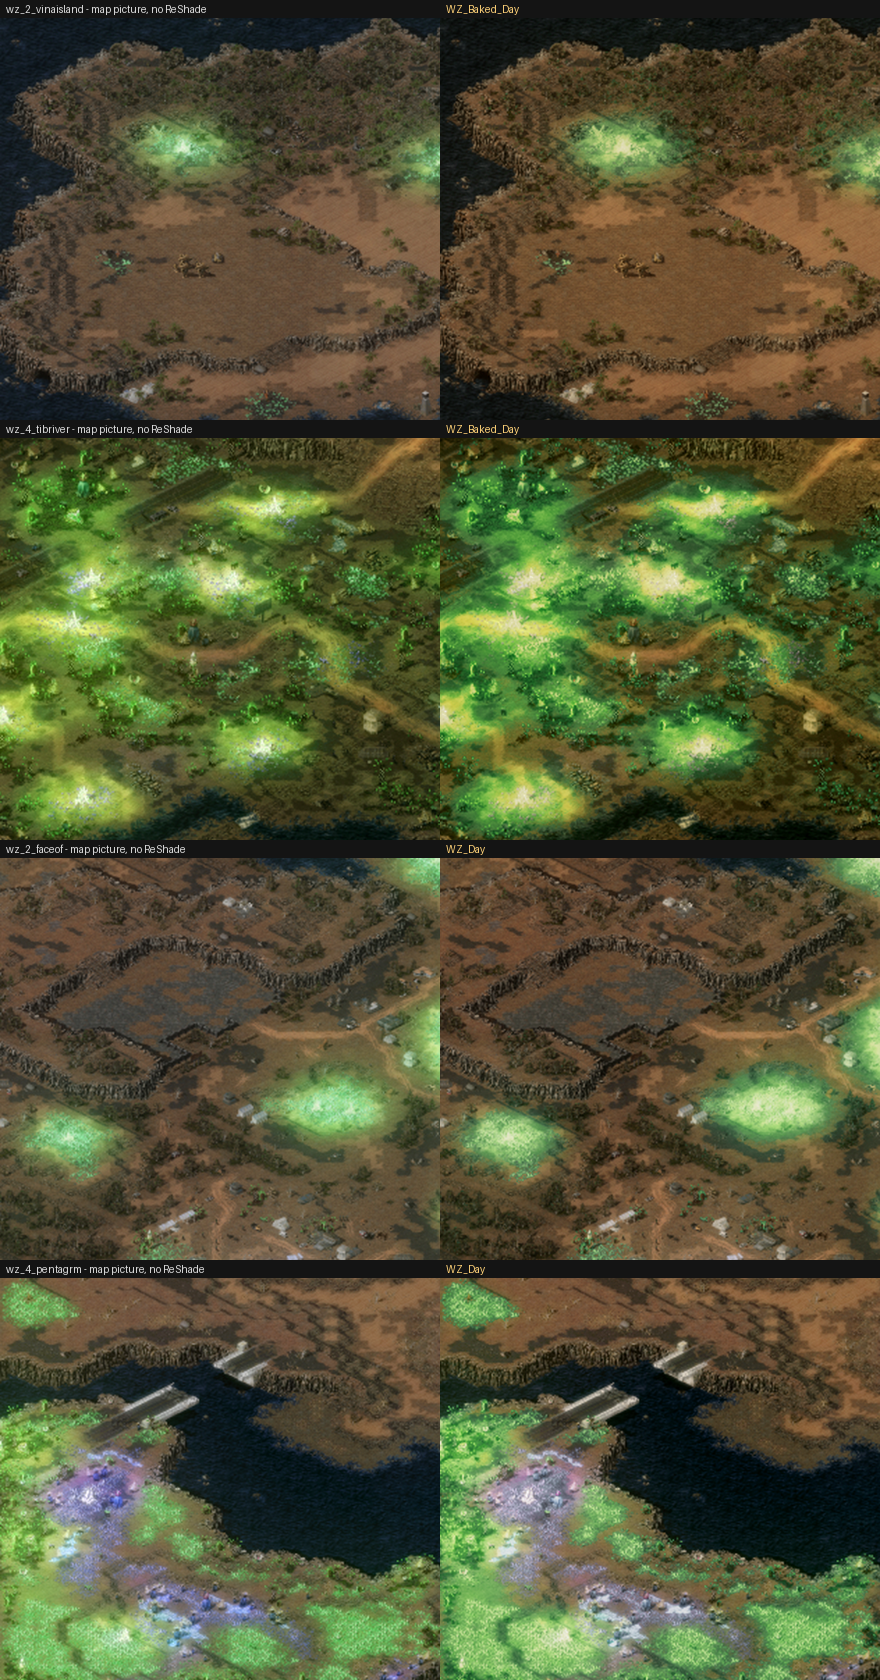
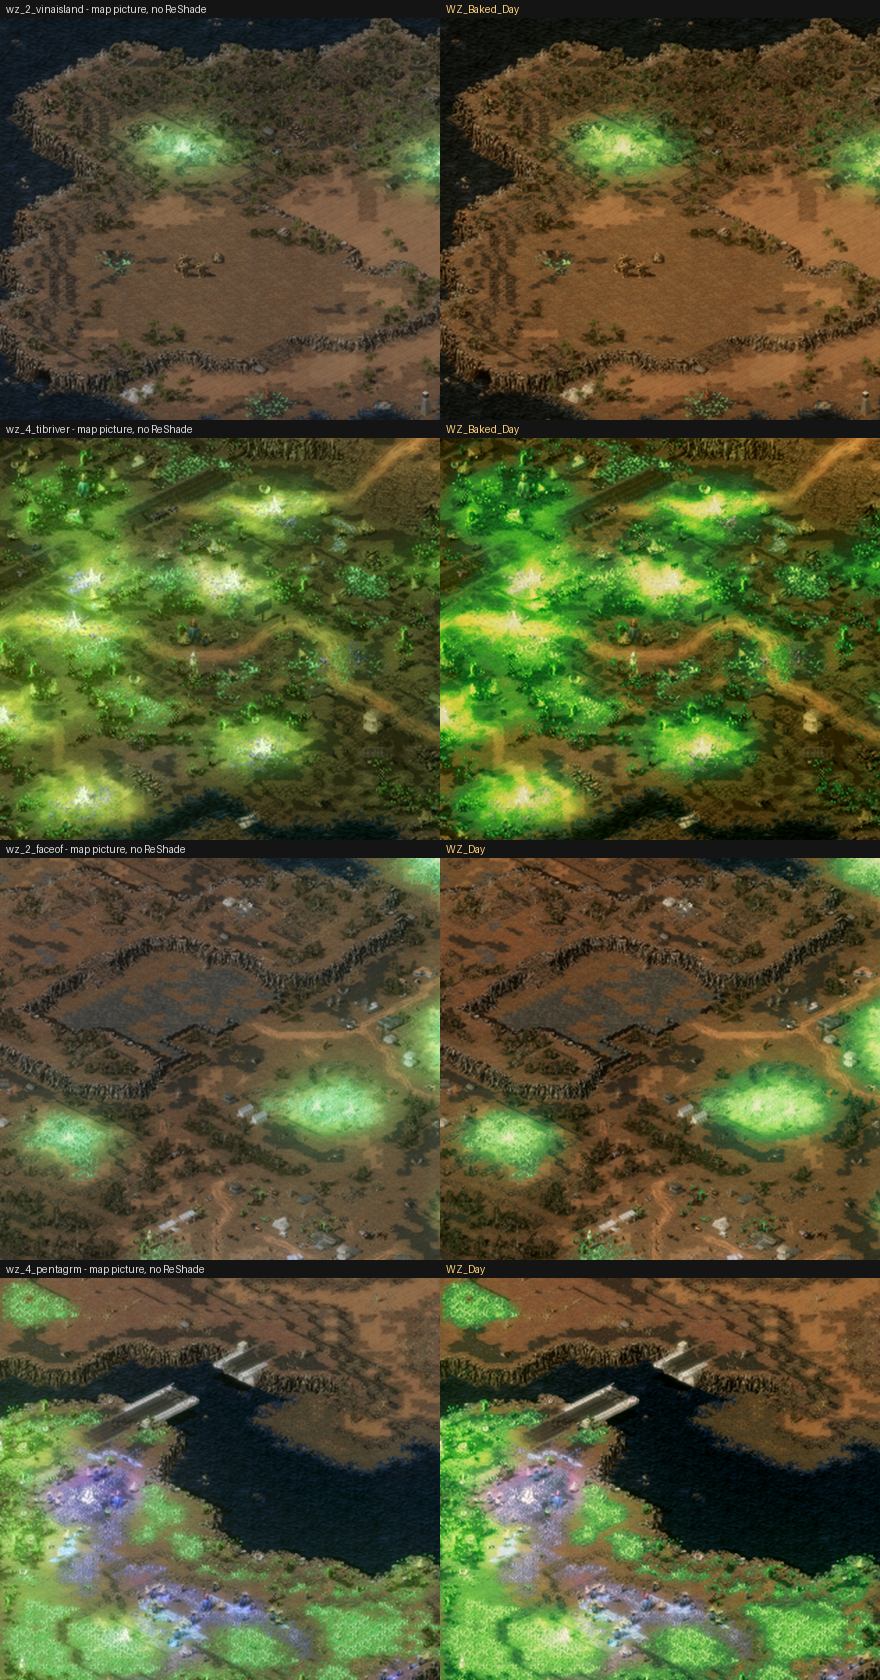
Campaign v2: fire and lights pop, tiberium keeps its glow, bolder grades
- Fire/explosions pushed hotter and richer in the LUT (terrain-safe mask) plus the
  Fire and Light Pop pair with low glow, same in every preset.
- Tiberium: lime/neon kept at the bright tips, variation in the body, exempt from desaturation.
- Stronger Baked Day / Day / Overcast / Night / Ion Storm grades.

Claude-Session: https://claude.ai/code/session_01SYjw5eNejrcA7ixFhR12pB

diff --git a/tools/campaign/build_campaign.py b/tools/campaign/build_campaign.py
@@ -18,22 +18,22 @@ OUT = os.path.join(ROOT, "game", "reshade-shaders", "Custom", "Campaign")
 LOOKS = {
     # name: dict(wb=gain rgb, lift=shadow tint rgb, gamma, contrast, sat, shoulder, tib=natural-tiberium strength,
     #            split=highlight tint rgb, vig=vignette amount, grain)
-    "WZ_Baked_Day":    dict(wb=(1.10, 1.00, 0.82), lift=(0.030, 0.014, 0.000), gamma=0.94, contrast=1.16, sat=0.86,
+    "WZ_Baked_Day":    dict(wb=(1.14, 1.00, 0.76), lift=(0.040, 0.018, 0.000), gamma=0.92, contrast=1.22, sat=0.84,
                             shoulder=0.72, tib=1.0, split=(1.05, 1.00, 0.90), vig=-0.45, grain=0.10,
                             note="Scorching, sun-bleached day: hot amber light, bleached colour, soft glare rolloff."),
-    "WZ_Day":          dict(wb=(1.04, 1.00, 0.94), lift=(0.008, 0.006, 0.004), gamma=0.98, contrast=1.12, sat=0.94,
+    "WZ_Day":          dict(wb=(1.06, 1.00, 0.91), lift=(0.012, 0.008, 0.004), gamma=0.97, contrast=1.18, sat=1.02,
                             shoulder=0.82, tib=1.0, split=(1.02, 1.0, 0.98), vig=-0.40, grain=0.10,
                             note="Clear day: more depth and warmth, natural tiberium."),
-    "WZ_Overcast":     dict(wb=(0.95, 1.00, 1.05), lift=(0.000, 0.012, 0.026), gamma=1.03, contrast=1.08, sat=0.68,
+    "WZ_Overcast":     dict(wb=(0.93, 1.00, 1.07), lift=(0.000, 0.016, 0.034), gamma=1.05, contrast=1.14, sat=0.62,
                             shoulder=0.82, tib=1.0, split=(0.98, 1.0, 1.02), vig=-0.55, grain=0.14,
                             note="Grey, heavy sky: drained colour, cold shadows, the muted dystopia."),
-    "WZ_Night":        dict(wb=(0.90, 1.00, 1.12), lift=(0.000, 0.018, 0.045), gamma=0.90, contrast=1.10, sat=0.74,
+    "WZ_Night":        dict(wb=(0.86, 0.98, 1.16), lift=(0.000, 0.022, 0.060), gamma=0.90, contrast=1.16, sat=0.72,
                             shoulder=0.88, tib=1.0, split=(1.05, 1.0, 0.93), vig=-0.65, grain=0.16,
                             note="For missions that are already dark: no extra darkening, moonlit blue shadows, lights stay warm."),
     "WZ_Burning_Dusk": dict(wb=(1.14, 0.97, 0.80), lift=(0.030, 0.000, 0.034), gamma=0.97, contrast=1.16, sat=1.02,
                             shoulder=0.78, tib=1.0, split=(1.06, 0.98, 0.88), vig=-0.55, grain=0.12,
                             note="Red-sky missions: amber light, violet shadows."),
-    "WZ_Ion_Storm":    dict(wb=(0.92, 1.00, 1.10), lift=(0.010, 0.016, 0.045), gamma=1.06, contrast=1.24, sat=0.50,
+    "WZ_Ion_Storm":    dict(wb=(0.90, 1.00, 1.12), lift=(0.022, 0.010, 0.060), gamma=1.08, contrast=1.30, sat=0.45,
                             shoulder=0.82, tib=0.9, split=(0.96, 1.0, 1.06), vig=-0.65, grain=0.18,
                             note="Ion storm missions: drained colour, cold electric shadows, hard contrast."),
     "WZ_Snow_Day":     dict(wb=(0.94, 1.00, 1.08), lift=(0.000, 0.008, 0.022), gamma=1.02, contrast=1.10, sat=0.82,
@@ -85,17 +85,18 @@ def natural_tiberium(c, strength):
     # green: dark parts -> deep emerald (150 deg), bright tips -> pale yellow-green (95 deg); calm the neon
     g_h = (150 - 55 * ss(0.25, 0.95, v)) / 360
     neon = ss(0.65, 1.0, s) * ss(0.5, 1.0, v)
-    g_s = s * (1 - 0.40 * neon) * (1 - 0.15 * ss(0.8, 1.0, v)) * 0.9
+    g_s = s * (1 - 0.15 * neon)
     g_v = v * (1 - 0.06 * neon)
     # blue: towards icy steel (212 deg), less saturated, bright parts go pale
     b_h = np.full_like(h, 212 / 360)
-    b_s = s * (0.62 - 0.22 * ss(0.6, 1.0, v))
+    b_s = s * 0.78
     b_v = v * 0.97
     hg = np.stack([h + (g_h - h) * 0.85, g_s, g_v], -1)
     hb = np.stack([h + (((b_h - h + 0.5) % 1.0) - 0.5) * 0.8, b_s, b_v], -1)
     out = c.copy()
-    wg = (green * strength)[..., None]
-    wb = (blue * strength)[..., None]
+    # keep the glowing lime / neon at the bright tips; reshape the body of the crystal
+    wg = (green * strength * (1 - 0.65 * ss(0.65, 1.0, v)))[..., None]
+    wb = (blue * strength * (1 - 0.70 * ss(0.55, 1.0, v)))[..., None]
     out = out * (1 - wg) + hsv2rgb(hg) * wg
     out = out * (1 - wb) + hsv2rgb(hb) * wb
     return out
@@ -120,17 +121,32 @@ def grade(c, p):
     # gamma, contrast around 0.45
     x = np.clip(x, 0, None) ** p["gamma"]
     x = 0.45 + (x - 0.45) * p["contrast"]
-    # saturation
+    # saturation (tiberium keeps most of its glow colour)
+    hsv0 = rgb2hsv(c)
+    tibm = np.maximum(hue_window(hsv0[..., 0], 118 / 360, 40 / 360, 15 / 360), hue_window(hsv0[..., 0], 235 / 360, 35 / 360, 12 / 360))
+    tibm = tibm * ss(0.2, 0.45, hsv0[..., 1]) * ss(0.2, 0.45, hsv0[..., 2])
+    sat = p["sat"] + (max(p["sat"], 1.0) - p["sat"]) * 0.8 * tibm
     l = luma(x)[..., None]
-    x = l + (x - l) * p["sat"]
+    x = l + (x - l) * sat[..., None]
     # soft highlight shoulder
     k = p["shoulder"]
     over = np.maximum(x - k, 0)
     x = np.minimum(x, k) + over / (1 + over / (1 - k))
     x = np.clip(x, 0, 1)
-    # hot protection: fire, explosions, lamps, near-white keep the game's colour
-    m = (hot_mask(c) * 0.85)[..., None]
-    return x * (1 - m) + c * m
+    # fire, explosions, weapon fire: hotter and richer than the game drew them, the same in every preset;
+    # lamps and near-white: pushed towards clean bright white
+    hsv = rgb2hsv(c)
+    h, sa, v = hsv[..., 0], hsv[..., 1], hsv[..., 2]
+    warm = hue_window(h, 30 / 360, 32 / 360, 12 / 360)
+    fire = ss(0.72, 0.92, v) * warm * ss(0.45, 0.65, sa)
+    hot_h = h + (np.where(h > 0.5, h - 1, h) * 0 + 0.075 - np.where(h > 0.5, h - 1, h)) * 0.35
+    pop = hsv2rgb(np.stack([hot_h % 1.0, np.clip(sa * 1.25 + 0.05, 0, 1), np.clip(v * 1.15, 0, 1)], -1))
+    white = ss(0.82, 0.97, c.min(-1))
+    lamp = np.clip(c * 1.08 + 0.02, 0, 1)
+    m1 = (fire * 0.9)[..., None]
+    x = x * (1 - m1) + pop * m1
+    m2 = (white * 0.85)[..., None]
+    return x * (1 - m2) + lamp * m2
 
 
 def make_lut(p):
@@ -146,9 +162,12 @@ def make_lut(p):
 
 def preset_ini(name, p):
     lines = [f'PreprocessorDefinitions=fLUT_TextureName="WZC_{name[3:]}_lut.png"',
-             "Techniques=UI_Before,Deband,LUT,Vignette,FilmGrain,UI_After",
-             "TechniqueSorting=UI_Before,Deband,LUT,Vignette,FilmGrain,UI_After",
+             "Techniques=UI_Before,LightGuard_Before,Deband,LUT,Vignette,FilmGrain,LightGuard_After,UI_After",
+             "TechniqueSorting=UI_Before,LightGuard_Before,Deband,LUT,Vignette,FilmGrain,LightGuard_After,UI_After",
              "",
+             "[CnCLightGuard.fx]", "Debug_View=0", "Fire_Anchor=0.350000", "Fire_Gain=0.350000", "Fire_Reach=0.000000",
+             "Fire_Saturation=0.350000", "Fire_Strength=1.000000", "Glow_Size=1.200000", "Glow_Strength=0.200000",
+             "Lamp_Anchor=0.500000", "Lamp_Boost=0.450000", "Lamp_Radius=3.000000", "Lamp_Strength=1.000000", "",
              "[CnCUIskip.fx]", "Isolate_UI=1", "",
              "[Deband.fx]", "custom_avgdiff=1.800000", "custom_maxdiff=4.000000", "custom_middiff=2.000000",
              "debug_output=0", "iterations=1", "range=16.000000", "threshold_preset=1", "",
